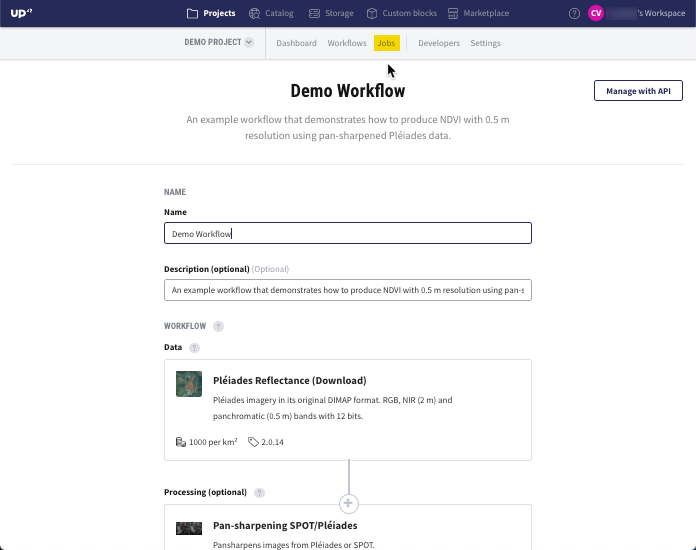
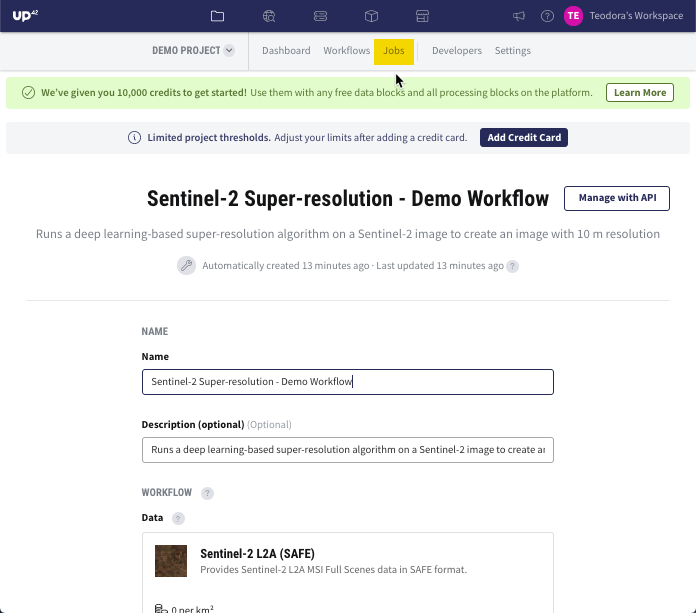
demo workflow

diff --git a/source/getting-started/demo-workflow.rst b/source/getting-started/demo-workflow.rst
@@ -8,28 +8,26 @@
 Demo Workflow
 ====================
 
-This section will guide you through viewing the results generated by a job run on the UP42 console. The job run is based on a demo workflow and computes a Normalized Difference Vegetation Index (:term:`NDVI`) map from a Pléiades satellite image.
+This section will guide you through viewing the results generated by a job run on the UP42 console. The job run is based on a demo workflow and computes a super-resolution algorithm for a Sentinel-2 satellite image. This algorithm upscales the lower-resolution bands (20 m and 60 m) to a 10 m pixel size.
 
 The UP42 console
-------------------------
+----------------
 
-To sign up to the `UP42 console <https://console.up42.com/>`_, please follow the steps from the article `Create an UP42 account <https://docs.up42.com/getting-started/sign-up.html>`_. 
+To sign up to the `UP42 console <https://console.up42.com/>`_, please follow the steps from the article `Create an UP42 account <https://docs.up42.com/getting-started/sign-up.html>`_.
 
 After signing up and logging in the UP42 console, the dashboard displays the *Demo Project*. This project has been created in order for you to explore our platform and understand the concepts that UP42 is based on: :term:`workflows<workflow>`, :term:`data and processing blocks<block>`, :term:`jobs<job>` and :term:`tasks<task>`. For more information, please visit the article :ref:`Core concepts <core-concepts>`.
 
 .. figure:: _assets/demo/step00_demoProject.png
    :align: center
    :alt: welcomeDemo
-   The UP42 console
 
 Explore the Demo Workflow
--------------------------------------
+-------------------------
 
 Click on the *Demo Project* and you will be redirected to the *Demo Workflow*. This workflow consists of the following blocks:
 
-*   `Pléiades Reflectance (Download) <https://docs.up42.com/up42-blocks/data/pleiades-reflectance-download.html>`_ data block
-*   :ref:`Pan-sharpening SPOT/Pléiades <pansharpen-block>` processing block
-*   `NDVI <https://docs.up42.com/up42-blocks/processing/ndvi.html>`_ processing block
+*   `Sentinel-2 L2A (SAFE) <https://docs.up42.com/up42-blocks/data/aws-s2-l2a.html>`_ data block
+*   `Super-resolution Sentinel-2 <https://docs.up42.com/up42-blocks/processing/s2-superresolution.html>`_ processing block
 
 .. figure:: _assets/demo/step01_demo_workflow.png
    :align: center
@@ -44,7 +42,7 @@ For the demo workflow, the following job parameters were used:
 .. gist:: https://gist.github.com/up42-epicycles/35ac5a7fd87d0322abbb40f4cc84c671
 
 View the outputs of the job run
------------------------------------------
+-------------------------------
 
 In order to generate the results of this workflow, a job needs to be run. In this example, the job has been run and the results are already generated. In UP42, the geospatial results are defined as *outputs*. Explore the outputs by going to the UP42 menu bar and click on *Jobs*.
 
@@ -60,38 +58,27 @@ The *Jobs* section displays the status of the job run as *Successful*, which ind
 
 You can download the outputs in more ways:
 
-**1.  Last Output**. If you want to access the output from the last block, click on *Download*.
+**1.  Final Output**. If you want to access the output from the last block, click on *Download*.
 
-**2.  Intermediate Outputs**. If you want to access each individual output from each block, click on *Results*. In this case, you need to click on three *Results* buttons and get three different outputs.
+**2.  Intermediate Outputs**. If you want to access each individual output from each block, click on *Results*.
 
 .. figure:: _assets/demo/step05_downloadOutputs.png
    :align: center
    :alt: DownloadDemoResults
 
-The outputs from the demo workflow can be displayed in the free GIS software `QGIS <https://qgis.org/en/site/forusers/download.html>`_. In the GIS software, an NDVI map over an :term:`Area of Interest<AOI>` near Christchurch, New Zealand is displayed. For comparison purposes, both the original Pléiades image and the NDVI map are shown.
+In this example, the final output is downloaded. This output can be displayed in the free GIS software `QGIS <https://qgis.org/en/site/forusers/download.html>`_. In QGIS, a Sentinel-2 image with an upscaled spatial resolution (10 m) over New York is displayed.
 
 .. gist:: https://gist.github.com/up42-epicycles/b40d03163ad2dbe1bb43f09f084ef812
 
-.. figure:: _assets/demo/step05_PHR_overview.png
+.. figure:: _assets/demo/step06_S2_overview.png
    :align: center
-   :alt: PHROverviewMap
-
-.. figure:: _assets/demo/step06_PHR_image_closeup.png
-   :align: center
-   :alt: PHRCloseup
-
-.. figure:: _assets/demo/step07_NDVI_map_closeup.png
-   :align: center
-   :alt: NDVICloseup
+   :alt: S2SuperRes
 
 
 .. warning::
    Please be aware that the *Demo Project* and *Demo Workflow* (or any new workflows created in the *Demo Project*) have an AOI limit of 10 km :superscript:`2`. For larger AOI sizes of up to 100 km :superscript:`2`, you need to create a new project. If you add your credit card details in the UP42 account profile, these limitations are waived and you will be able to set the AOI size to maximum 1000 km :superscript:`2`.
 
-.. tip::
-   In this example, the Pléiades image was retrieved using an order ID defined by the parameter *order_ids* (see job parameters). This allows you to paste this order ID in any other job parameters and re-use the Pléiades image without limit!
-
 Next steps
----------------
+----------
 
 Congratulations! Your are ready to learn more about UP42 in the article `Build the first UP42 workflow <https://docs.up42.com/getting-started/first-workflow.html>`_.
